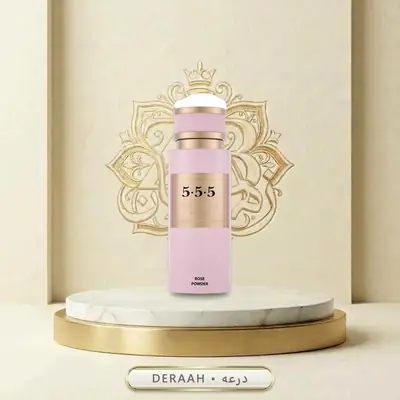
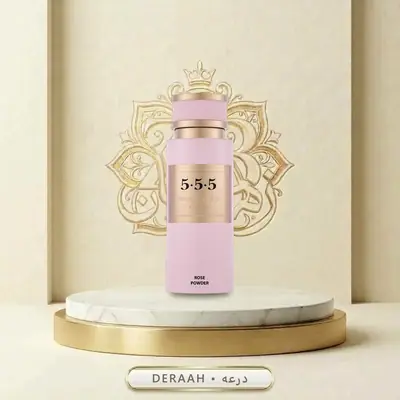
Deraah and Laverne re-cuts with the full model; Deraah perfumes out of oils
- New cutoutModel flag: the full birefnet-general model separates the
  soft cast shadows and white backdrop slivers the lite model kept.
  Used for 100 Ways of Love, Dream, Rose Powder, Private 555 (6 sizes)
  and Sweet Man (2 sizes)
- New cutoutCapClip flag drops the message card standing behind Dream's cap
- Opposite (150/50 ml), Opposite Rouge and Rosette are perfumes on
  Deraah's store but were filed as perfume oils

Claude-Session: https://claude.ai/code/session_01STVvvRzREoL5Wd8ZBCeqVE

Changed region(s): [[0.42, 0.21, 0.6, 0.6], [0.48, 0.69, 0.54, 0.72]]

diff --git a/tools/images/render.py b/tools/images/render.py
@@ -27,15 +27,18 @@ SIZE = 1024
 BOTTLE_BOX = (480, 515)                       # max bottle width/height on the podium
 PODIUM_Y = {"ghalati": 746, "assaf": 746}     # y where the bottle touches the podium
 DEFAULT_PODIUM_Y = 752
-_session = None
 
 
-def session():
-    global _session
-    if _session is None:
+_sessions = {}
+
+
+def session(model="birefnet-general-lite"):
+    """rembg session per model; the full birefnet-general is slower but
+    separates soft cast shadows the lite model keeps."""
+    if model not in _sessions:
         from rembg import new_session
-        _session = new_session("birefnet-general-lite")
-    return _session
+        _sessions[model] = new_session(model)
+    return _sessions[model]
 
 
 def source_url(item):
@@ -272,11 +275,12 @@ def keep_largest(alpha):
 
 
 def cutout(img, mirror=False, solid=False, mirror_fill_=False, body_clip=None, largest=False,
-           trim_bottom=None, trim_top=None, straight_left=False):
+           trim_bottom=None, trim_top=None, straight_left=False, model=None,
+           cap_clip=None):
     from rembg import remove
     img.thumbnail((1200, 1200), Image.LANCZOS)
     rgb = flatten(img)
-    cut = remove(rgb, session=session())
+    cut = remove(rgb, session=session(model) if model else session())
     arr = np.asarray(cut)
     alpha = clean_alpha(arr[..., 3])
     rows = np.where(alpha.max(axis=1) > 128)[0]
@@ -313,6 +317,17 @@ def cutout(img, mirror=False, solid=False, mirror_fill_=False, body_clip=None, l
         rows = np.where(alpha.max(axis=1) > 64)[0]
         if len(rows):
             alpha[:rows[0] + int((rows[-1] - rows[0]) * trim_top)] = 0
+    if cap_clip:
+        # Above `cap_clip` (fraction of the height) keep only the cap's width,
+        # measured on that row: drops a card or tag standing behind the cap.
+        rows = np.where(alpha.max(axis=1) > 64)[0]
+        if len(rows):
+            y = rows[0] + int((rows[-1] - rows[0]) * cap_clip)
+            xs = np.nonzero(alpha[y] > 64)[0]
+            if len(xs):
+                pad = max(2, (xs.max() - xs.min()) // 20)
+                alpha[:y, :max(xs.min() - pad, 0)] = 0
+                alpha[:y, xs.max() + pad + 1:] = 0
     if trim_bottom:
         # Drop a stand or plinth the bottle was photographed on.
         rows = np.where(alpha.max(axis=1) > 64)[0]
@@ -362,7 +377,9 @@ def showcase(item, house):
                        largest=bool(item.get("cutoutKeepLargest")),
                        trim_bottom=item.get("cutoutTrimBottom"),
                        trim_top=item.get("cutoutTrimTop"),
-                       straight_left=bool(item.get("cutoutStraightLeft")))
+                       straight_left=bool(item.get("cutoutStraightLeft")),
+                       model=item.get("cutoutModel"),
+                       cap_clip=item.get("cutoutCapClip"))
     bg = Image.open(IMAGES / HOUSES[house][2]).convert("RGBA").resize((SIZE, SIZE), Image.LANCZOS)
     scale = min(BOTTLE_BOX[0] / cut.width, BOTTLE_BOX[1] / cut.height)
     cut = cut.resize((max(1, round(cut.width * scale)), max(1, round(cut.height * scale))), Image.LANCZOS)

diff --git a/tools/images/README.md b/tools/images/README.md
@@ -33,6 +33,8 @@ Some photos need a hint in the catalog entry before rendering:
 - `cutoutTrimBottom: 0.08` cuts off a stand or plinth the bottle was photographed on (fraction of the height).
 - `cutoutTrimTop: 0.035` cuts a sliver of backdrop the model kept on top of a flat cap.
 - `cutoutStraightLeft: true` cuts a shadow bulging past the left side of a straight-sided bottle (charms on the right are kept).
+- `cutoutModel: "birefnet-general"` uses the full (slower, ~12 GB RAM) model, which separates soft cast shadows the lite model keeps; render such items one per process.
+- `cutoutCapClip: 0.12` keeps only the cap width above that fraction of the height (drops a card standing behind the cap).
 - `cutoutCrop: [l, t, r, b]` crops the source photo (fractions) before the cutout, e.g. to leave out the box next to a bottle.
 
 After rendering, run `python tools/images/thumbs.py` to refresh the card thumbnails. Image URLs carry `?v=<content hash>` so browsers never show a cached older picture; `python tools/images/versions.py` re-syncs them after manual image edits.
